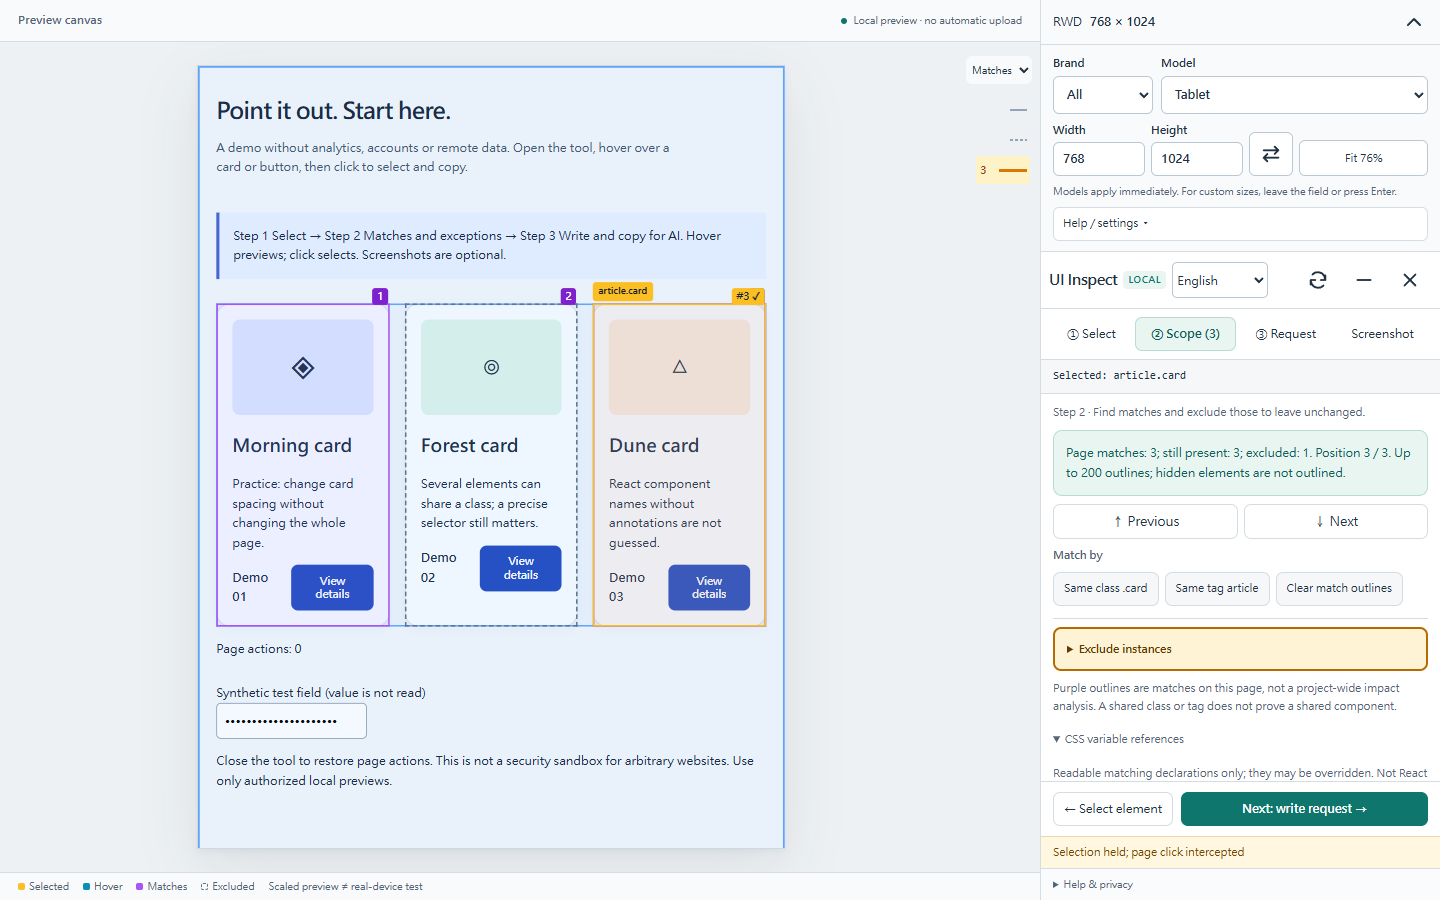
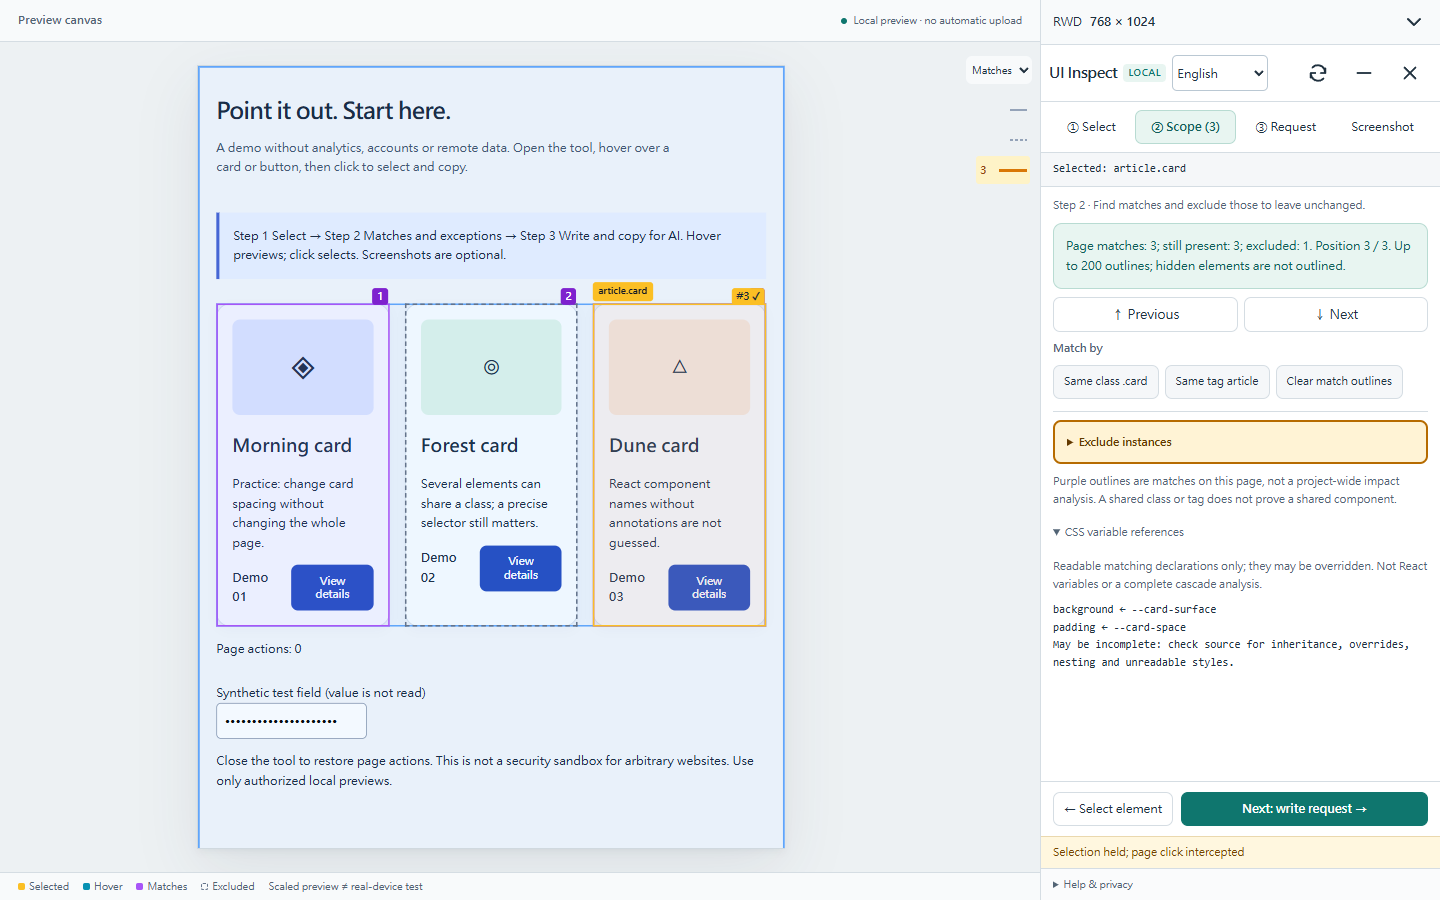
Collapse RWD settings when selecting an element

Changed region(s): [[0.7188, 0.0622, 1.0, 0.8711], [0.9062, 0.0622, 0.9375, 0.0933]]

diff --git a/tests/browser/inspector-smoke.js b/tests/browser/inspector-smoke.js
@@ -42,7 +42,10 @@ async(page)=>{
   }));
   check('step 1 explains click vs hover and blocks empty next',await panel.getByText(/Step 1 ·/).isVisible()&&await panel.getByRole('button',{name:'下一步：確認範圍 →',exact:true}).isDisabled());
   const mainName=panel.locator('.tree-name').filter({hasText:'main#demo-main'});
+  await mainName.hover();
+  check('hover leaves RWD settings open',await page.locator('#sizes').isVisible());
   await mainName.click();
+  check('DOM selection collapses RWD without changing dimensions',!await page.locator('#sizes').isVisible()&&await page.locator('#preview').evaluate(n=>n.clientWidth===768&&n.clientHeight===1024));
   const beforeExpand=await report.inputValue();
   await panel.getByRole('button',{name:'展開／收合 section.grid',exact:true}).click();
   check('arrow expands without changing selection',beforeExpand===await report.inputValue());
@@ -60,6 +63,7 @@ async(page)=>{
   await name.focus();await name.press('ArrowRight');
   check('right key expands child layer',await panel.locator('.tree-name').filter({hasText:'div.art'}).first().isVisible());
   check('RWD controls are inside the external panel',await page.locator('.side .rwd-controls').count()===1);
+  if(!await page.locator('#sizes').isVisible())await page.locator('.rwd-controls > summary').click();
   await page.locator('.rwd-controls > summary').click();
   check('RWD controls collapse to summary',!await page.locator('#sizes').isVisible());
   await page.locator('.rwd-controls > summary').click();
@@ -70,13 +74,17 @@ async(page)=>{
     return Math.abs(document.body.getBoundingClientRect().height-innerHeight)<1 && f.top>=a.top && f.bottom<=a.bottom && frame.contentWindow.innerWidth===768 && frame.contentWindow.innerHeight===1024;
   }));
   const held=await report.inputValue();
+  if(!await page.locator('#sizes').isVisible())await page.locator('.rwd-controls > summary').click();
+  check('RWD can reopen after selection',await page.locator('#sizes').isVisible());
   await preview.locator('h1').evaluate(n=>n.scrollIntoView({block:'center'}));
   const hoverBox=await preview.locator('h1').boundingBox();
   await page.mouse.move(hoverBox.x+hoverBox.width/2,hoverBox.y+hoverBox.height/2);
   await page.waitForFunction(()=>document.querySelector('#preview').contentDocument.querySelector('[data-workflow-inspector]').shadowRoot.querySelector('.label').textContent.includes('h1'));
   check('hover another element keeps selected report',held===await report.inputValue());
   check('hover name and separate outline displayed',await preview.locator('.hover-target').isVisible());
+  check('hover after reopening does not recollapse RWD',await page.locator('#sizes').isVisible());
   await page.mouse.click(hoverBox.x+hoverBox.width/2,hoverBox.y+hoverBox.height/2);
+  check('page selection recollapses manually reopened RWD',!await page.locator('#sizes').isVisible());
   check('page click syncs selected layer',await panel.locator('.tree-name[aria-pressed="true"]').innerText().then(t=>t.includes('h1')));
   await panel.locator('.tree-name').filter({hasText:'article.card'}).first().click();
   check('tree selection highlights preview',await preview.locator('[data-workflow-inspector] .selected').isVisible());
@@ -124,9 +132,11 @@ async(page)=>{
   await page.evaluate(()=>Object.defineProperty(navigator,'clipboard',{configurable:true,value:{writeText:async text=>{window.__batchCopy=text;}}}));
   await panel.getByRole('button',{name:'複製修改需求',exact:true}).click();
   check('successful retry clears manual fallback',!await manual.isVisible()&&(await panel.locator('.status').innerText()).includes('已複製'));
+  if(!await page.locator('#sizes').isVisible())await page.locator('.rwd-controls > summary').click();
   await page.locator('#fit').click();
   check('100 percent preserves layout dimensions',await preview.locator('body').evaluate(()=>innerWidth===768&&innerHeight===1024));
   await page.locator('#fit').click();
+  if(!await page.locator('#sizes').isVisible())await page.locator('.rwd-controls > summary').click();
   await page.locator('.more > summary').click();
   check('settings opens',await page.locator('.more-content').isVisible());
   await page.locator('.more > summary').press('Escape');

diff --git a/ui-element-inspector/assets/rwd-preview.js b/ui-element-inspector/assets/rwd-preview.js
@@ -17,6 +17,8 @@
   function filterMarkers(){[...markers.children].forEach(button=>{button.hidden=railMode.value==='copy'&&button.classList.contains('excluded');});}
   railMode.addEventListener('change',filterMarkers);
   const matchDock=document.querySelector('[data-inspector-dock]');
+  // A held selection starts inspection; hovering and tree disclosure are previews only.
+  matchDock.addEventListener('inspector:selected',()=>{document.querySelector('.rwd-controls').open=false;});
   matchDock.addEventListener('inspector:matches',event=>{
     const {items,current}=event.detail;rail.hidden=!items.length;
     if(markers.children.length!==items.length){

diff --git a/ui-element-inspector/assets/inspector.js b/ui-element-inspector/assets/inspector.js
@@ -651,6 +651,7 @@
     syncTree(lock);
     describe();
     draw();
+    if(lock)externalHost?.dispatchEvent(new CustomEvent('inspector:selected',{bubbles:true,composed:true}));
   }
   function hit(x, y) {
     return document.elementsFromPoint(x, y).find(node => node !== host && !host.contains(node));

diff --git a/docs/RELEASE-STATUS.md b/docs/RELEASE-STATUS.md
@@ -30,6 +30,6 @@ Updated 2026-09-15. Available instructions are not a guarantee of every AI host,
 
 ## Evidence / 驗證依據
 
-[Test commands and limitations](TESTING.md): 86 inspector checks, 125 language/capture checks and 47 Python tests passed on the local synthetic fixture. Includes larger icon targets and headers across four languages and six viewport sizes. Browser copy tests mock writes; the separately documented real Clipboard API write resolved, but pasting into AI was not verified. Native capture launches remain mocked. CSS variable references are candidates, not proof of the winning cascade.
+[Test commands and limitations](TESTING.md): 91 inspector checks, 125 language/capture checks and 47 Python tests passed on the local synthetic fixture. Includes larger icon targets and headers across four languages and six viewport sizes. Browser copy tests mock writes; the separately documented real Clipboard API write resolved, but pasting into AI was not verified. Native capture launches remain mocked. CSS variable references are candidates, not proof of the winning cascade.
 
-[測試指令與限制](TESTING.md)：86 項 Inspector、125 項語言／截圖、47 項 Python 通過，包含四語言、六種視窗尺寸的大圖示點擊範圍及標頭排版。瀏覽器套件使用假資料與模擬剪貼簿；另有真實 Clipboard API 寫入成功紀錄，但未驗貼進 AI。原生截圖測試為 mock；CSS 引用不等於最終生效樣式。
+[測試指令與限制](TESTING.md)：91 項 Inspector、125 項語言／截圖、47 項 Python 通過，包含四語言、六種視窗尺寸的大圖示點擊範圍及標頭排版。瀏覽器套件使用假資料與模擬剪貼簿；另有真實 Clipboard API 寫入成功紀錄，但未驗貼進 AI。原生截圖測試為 mock；CSS 引用不等於最終生效樣式。

diff --git a/docs/TESTING.md b/docs/TESTING.md
@@ -149,3 +149,9 @@ Real Clipboard API write was also repeated in the visible local workspace and re
 86 inspector checks, 125 locale/capture checks and 47 Python tests PASS. This supersedes the earlier 80/101 counts. Added DOM chevron survival after toggles, native RWD disclosure geometry, 44px rotate target, refresh/collapse/reopen behavior and labelled 44px header actions without overflow across four languages and six viewport sizes. Desktop EN/ZH and narrow EN screenshots were visually inspected. No dependencies added. Native capture, assistive technology, Firefox/Edge and real-device acceptance remain unverified.
 
 繁中：86 項指認、125 項語言／截圖、47 項 Python 通過。新增圖示大小、展開／收合、更新圖層、四語言六尺寸標頭檢查，中英桌機及窄螢幕圖片已目視檢查；未新增依賴。原生截圖、輔助科技、Firefox／Edge 與真機仍待驗。
+
+## Selection collapses RWD (2026-09-15)
+
+91 inspector, 125 locale/capture and 47 Python checks PASS. Five new assertions cover hover keeping settings open, DOM selection collapsing without changing dimensions, manual reopening, hover after reopening and page selection recollapsing. Existing copy/request, exclusions, tree position, RWD and capture regressions pass. EN/ZH selected-state screenshots visually inspected. No native capture or real-device claims.
+
+繁中：91 項指認、125 項語言／截圖與 47 項 Python 通過。只在確認選取時收合 RWD，不改尺寸、需求或步驟；Hover 不收合，手動可再展開。中英選取狀態截圖已目視檢查。

diff --git a/docs/HOW-TO.ja.md b/docs/HOW-TO.ja.md
@@ -1,5 +1,7 @@
 # 使い方 · ショートカット
 
+ページまたは DOM ツリーで要素を選ぶと、RWD 設定が自動的に折りたたまれます。ホバーだけでは折りたたまれません。サイズを変えるときは RWD 行を再度開いてください。選択と入力した変更内容は保持されます。
+
 **アイコンの使い方：** ↻ はレイヤーを更新（ページは再読み込みしません）、− はパネルを折りたたむ、× は閉じる、⇄ は幅と高さを入れ替えます。RWD 行の右矢印で設定を開閉できます。ホバーで名前を表示、Tab と Enter／スペースでも操作できます。ツールバーボタンは 44px、アイコンは 22px。手順、言語、除外、変更内容のコピーは文字を残しています。[新しい画像](VISUAL-GUIDE.md#larger-icon-controls)。
 
 **現在の操作：** 既定の言語項目は **言語** と表示され、自動判定を使います。デモの開始ボタンで外側パネルの作業画面が開きます。「範囲」では番号付き目盛りで要素に移動できます。「コピー対象」は含める要素だけを表示します。琥珀色の除外ボタンで変更しない要素を選べます。[検証状況](RELEASE-STATUS.md)。

diff --git a/docs/HOW-TO.fr.md b/docs/HOW-TO.fr.md
@@ -1,5 +1,7 @@
 # Mode d’emploi · raccourcis
 
+Sélectionner un élément sur la page ou dans l’arbre DOM replie automatiquement les réglages RWD. Le survol ne les replie pas. Rouvrez la ligne RWD pour modifier les dimensions ; la sélection et votre demande restent intactes.
+
 **Icônes :** ↻ actualise les calques, sans recharger la page ; − réduit le panneau ; × le ferme ; ⇄ échange largeur et hauteur. Le chevron à droite de RWD ouvre ou ferme les réglages. Survolez une icône pour lire son nom, ou utilisez Tab puis Entrée/Espace. Les boutons ont une cible de 44px et une icône de 22px. Les étapes, la langue, les exclusions et la copie gardent leur texte. [Images actualisées](VISUAL-GUIDE.md#larger-icon-controls).
 
 **Commandes actuelles :** l’option par défaut affiche **Langue** et détecte la langue automatiquement. Le bouton de la démo ouvre le panneau extérieur. Dans Périmètre, les repères numérotés permettent de rejoindre les éléments. **À copier** affiche les éléments inclus et le bouton ambré permet de choisir les exclusions. [État des vérifications](RELEASE-STATUS.md).

diff --git a/docs/HOW-TO.en.md b/docs/HOW-TO.en.md
@@ -1,5 +1,7 @@
 # How to use · shortcuts
 
+Selecting an element on the page or in the DOM tree automatically collapses RWD settings. Hovering does not. Reopen the RWD row whenever you need to change dimensions; selection and your request stay intact.
+
 **Icon controls:** ↻ refreshes the layer tree (not the page), − collapses the panel, × closes it, and ⇄ swaps width and height. Click the right chevron on the RWD row to expand/collapse settings. Hover an icon for its name, or reach it with Tab and activate with Enter/Space. Toolbar buttons have 44px targets and 22px icons. Steps, language, exclusions and Copy request keep their text. [Updated pictures](VISUAL-GUIDE.md#larger-icon-controls).
 
 **Current controls:** the default language option reads **Language** (automatic detection). The standalone demo button opens the external-panel workspace. In Scope, use numbered ticks to visit matches, choose **To copy** to see included items, and open the amber **Exclude instances** control to keep exceptions unchanged. [Verification status](RELEASE-STATUS.md).

diff --git a/docs/VISUAL-GUIDE.md b/docs/VISUAL-GUIDE.md
@@ -2,6 +2,8 @@
 
 ## Larger icon controls
 
+Selecting an element automatically collapses RWD, leaving space for inspection. Hover does not collapse it, and the summary row can always reopen settings. The current screenshots below show this selected state. / 選取元素後自動收合 RWD，留空間給檢查；Hover 不收合，需要時可再展開。下方最新截圖呈現選取後的狀態。
+
 Updated 2026-09-15 / 更新日期：2026-09-15。These are the latest header controls; earlier captures below show older text buttons. / 以下是新版工具列，下方較早的截圖仍是舊文字按鈕。
 
 ↻ **Refresh layers / 更新圖層** · − **Collapse / 收合** · × **Close / 關閉** · ⇄ **Rotate / 交換寬高**. Hover to read the localized name. Toolbar actions use 22px icons inside 44px buttons; the RWD chevron is 24px and the DOM chevron is 20px. / Hover 可看名稱，常用按鈕放大；步驟、語言、例外、複製仍保留文字。

diff --git a/docs/HOW-TO.zh-TW.md b/docs/HOW-TO.zh-TW.md
@@ -1,5 +1,7 @@
 # 使用方式 · 快捷索引
 
+點畫面或 DOM 選取元素後，RWD 設定會自動收合；單純 Hover 不會。需要改尺寸時再點 RWD 列展開，選取與手寫需求都保留。
+
 **圖示怎麼用：** ↻ 更新圖層樹（不重整網頁）、− 收合面板、× 關閉、⇄ 交換寬高。RWD 整列可點，右側箭頭表示展開／收合。滑鼠停在圖示上會顯示名稱，也能用 Tab 移到按鈕，再按 Enter／空白鍵。工具列按鈕有 44px 點擊範圍、22px 圖示；步驟、語言、例外與「複製修改需求」保留文字。[新版圖解](VISUAL-GUIDE.md#larger-icon-controls)。
 
 **新版控制：** 預設語言選項顯示「語言」（自動判定）。示範頁啟動會進外側面板工作區。在「確認範圍」點編號刻度找同類，切「本次」看這次包含的項目，琥珀色「例外」可勾選不要修改的項目。[已驗與待驗狀態](RELEASE-STATUS.md)。
